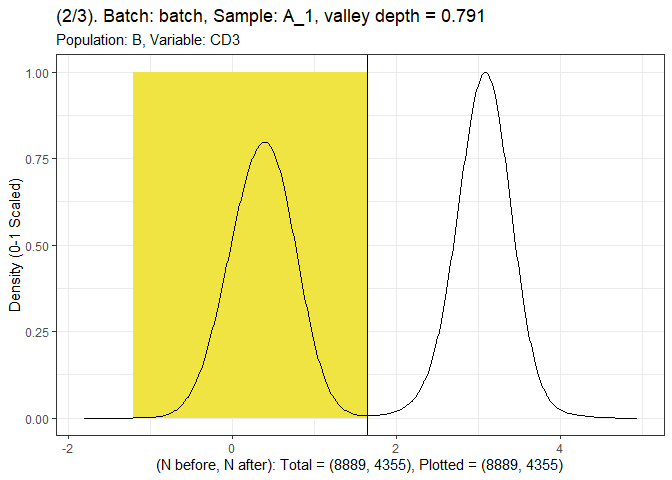
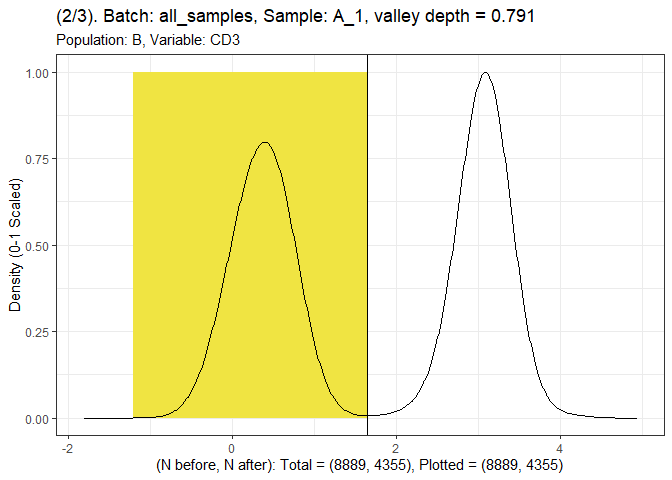
Updating README

Changed region(s): [[0.2188, 0.0, 0.7812, 0.0625]]

diff --git a/README.md b/README.md
@@ -16,7 +16,10 @@ data(hd, package = "healthyFlowData")
 hfd_exprs <- lapply(hd.flowSet@frames, \(x) x@exprs)
 
 GGally::ggpairs(
-  hfd_exprs[[1]], upper = list(continuous = "density"), progress = FALSE
+  hfd_exprs[[1]],
+  upper = list(continuous = "density"),
+  lower = list(continuous = GGally::wrap("points", alpha = 0.5, size = 1)),
+  progress = FALSE
 )
 ```
 
@@ -64,7 +67,7 @@ plusminus2 <- openxlsx::read.xlsx(
 
 ``` r
 hfd_gatetree <- gateTree2::gatetree(
-  list("batch" = hfd_exprs),
+  list("all_samples" = hfd_exprs),
   as.matrix(plusminus2),
   min_depth = 0.05,
   min_diff = 0.05
@@ -85,7 +88,7 @@ gateTree2::plot_tree(hfd_gatetree)
 
 ``` r
 gateTree2::plot_split(
-  list("batch" = hfd_exprs),
+  list("all_samples" = hfd_exprs),
   hfd_gatetree,
   batch = 1, samp = "A_1", pop = "B"
 )
@@ -107,7 +110,7 @@ gateTree2::plot_split(
 
 ``` r
 gateTree2::plot_split(
-  list("batch" = hfd_exprs),
+  list("all_samples" = hfd_exprs),
   hfd_gatetree,
   batch = 1, samp = "A_1", pop = "CD8+_T"
 )
@@ -129,7 +132,7 @@ gateTree2::plot_split(
 
 ``` r
 gateTree2::plot_split(
-  list("batch" = hfd_exprs),
+  list("all_samples" = hfd_exprs),
   hfd_gatetree,
   batch = 1, samp = "A_1", pop = "CD4+_T"
 )
@@ -152,13 +155,33 @@ gateTree2::plot_split(
 ## Plot Sample A_1, coloured according to the `gateTree` labels.
 
 ``` r
-GGally::ggpairs(hfd_exprs$A_1,
-  progress = FALSE,
+GGally::ggpairs(
+  hfd_exprs$A_1,
   upper = list(continuous = "density"),
-  ggplot2::aes(colour = hfd_gatetree_labels$batch$A_1)
+  lower = list(continuous = GGally::wrap("points", alpha = 0.5, size = 1)),
+  diag = list(continuous = GGally::wrap("densityDiag", alpha = 0.5)),
+  mapping = ggplot2::aes(colour = hfd_gatetree_labels$all_samples$A_1),
+  progress = FALSE
 ) +
   ggokabeito::scale_colour_okabe_ito(order = c(1, 2, 3, 9)) +
   ggokabeito::scale_fill_okabe_ito(order = c(1, 2, 3, 9))
 ```
 
 ![](README_files/figure-gfm/ggpairs-1.png)<!-- -->
+
+## Plot Sample D_5, coloured according to the `gateTree` labels.
+
+``` r
+GGally::ggpairs(
+  hfd_exprs$D_5,
+  upper = list(continuous = "density"),
+  lower = list(continuous = GGally::wrap("points", alpha = 0.5, size = 1)),
+  diag = list(continuous = GGally::wrap("densityDiag", alpha = 0.5)),
+  mapping = ggplot2::aes(colour = hfd_gatetree_labels$all_samples$D_5),
+  progress = FALSE
+) +
+  ggokabeito::scale_colour_okabe_ito(order = c(1, 2, 3, 9)) +
+  ggokabeito::scale_fill_okabe_ito(order = c(1, 2, 3, 9))
+```
+
+![](README_files/figure-gfm/ggpairs_D5-1.png)<!-- -->
